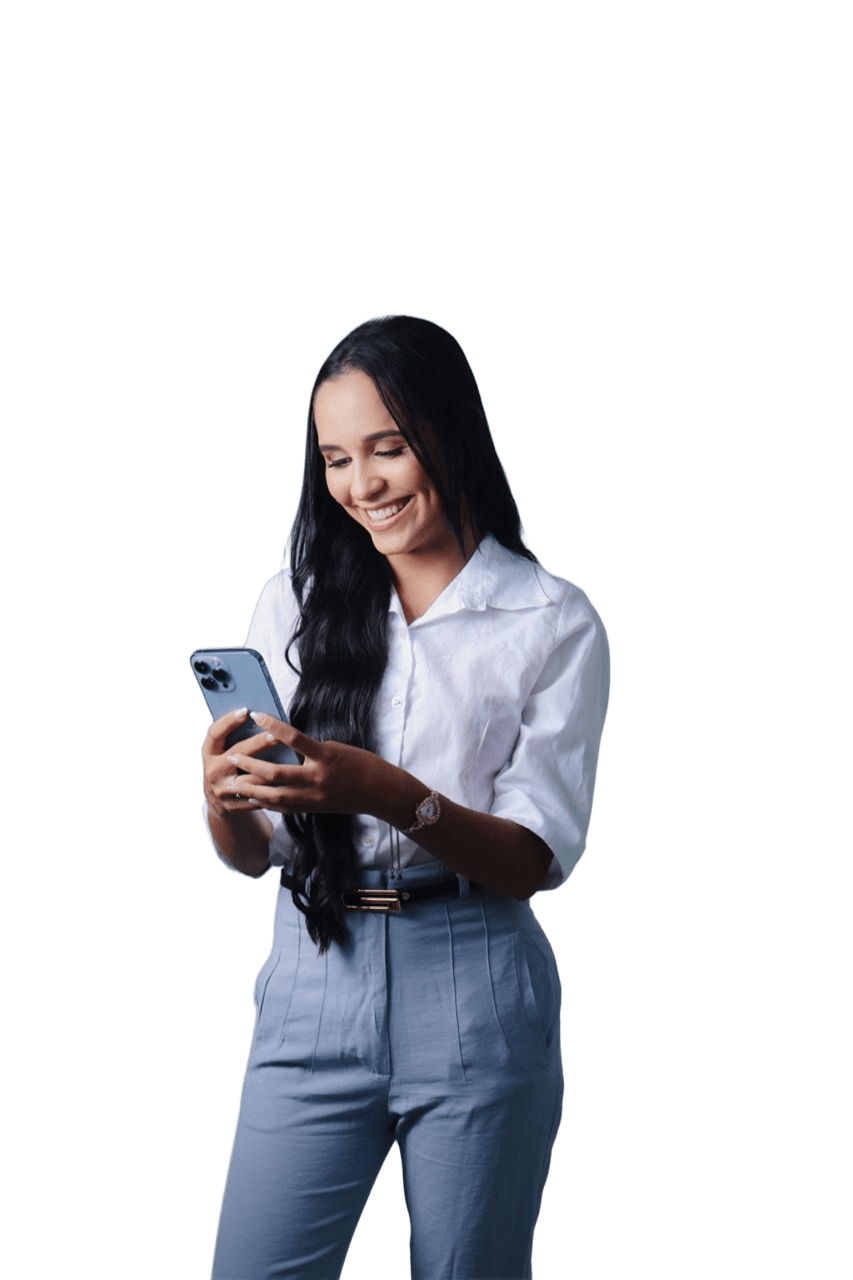
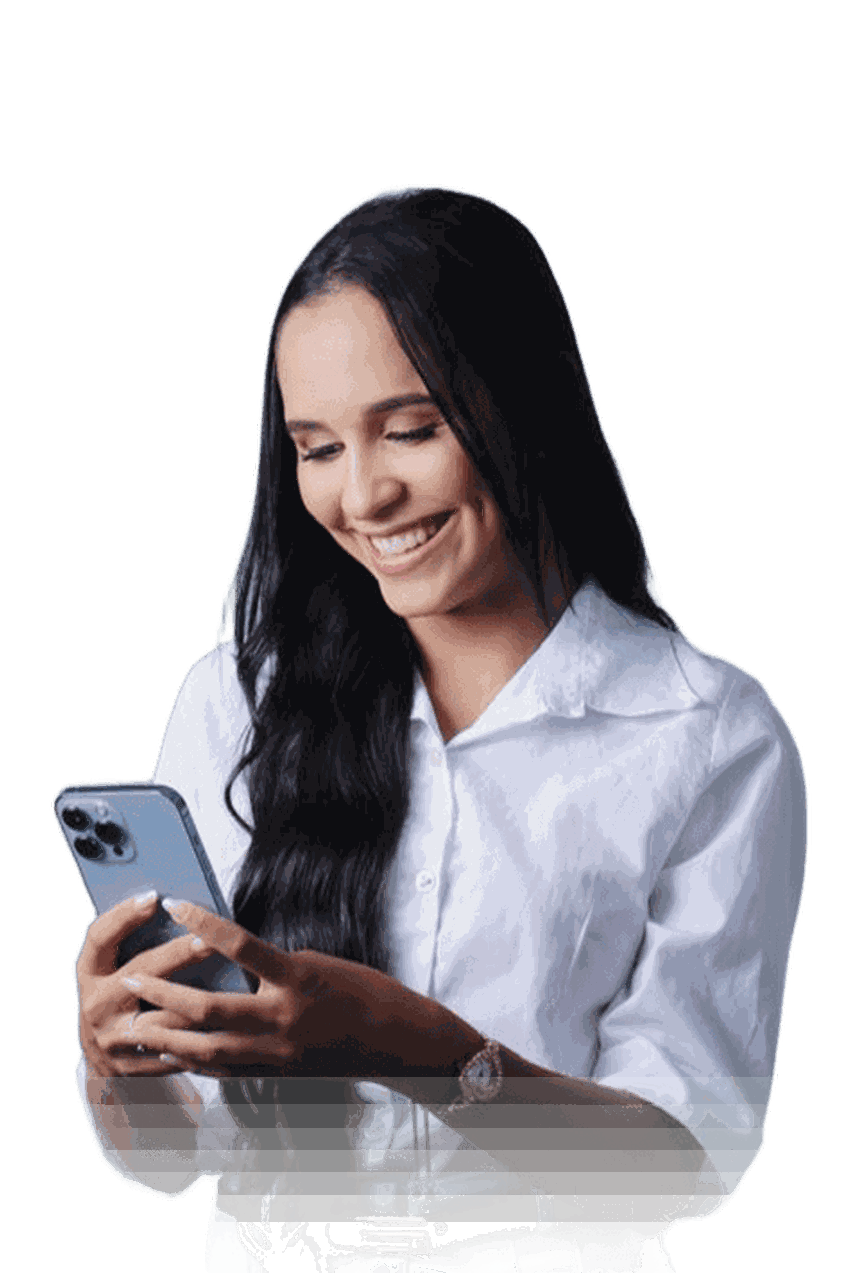
style(produtora): normalize waist-up framing and bottom fade-out across all team portraits

diff --git a/src/produtora/components/ui/TeamShowcaseSection.tsx b/src/produtora/components/ui/TeamShowcaseSection.tsx
@@ -270,13 +270,12 @@ export function TeamShowcaseSection() {
                           decoding="async"
                           className="relative h-full w-auto max-w-none object-contain select-none drop-shadow-[0_24px_45px_rgba(0,0,0,0.85)]"
                           style={{
-                            transform:
-                              chapter.id === 'ary' ? 'scale(1.15)' : 'scale(1.08)',
+                            transform: 'scale(1.08)',
                             transformOrigin: 'bottom center',
                             WebkitMaskImage:
-                              'linear-gradient(to bottom, black 84%, transparent 100%)',
+                              'linear-gradient(to bottom, black 78%, transparent 100%)',
                             maskImage:
-                              'linear-gradient(to bottom, black 84%, transparent 100%)',
+                              'linear-gradient(to bottom, black 78%, transparent 100%)',
                           }}
                         />
                       </div>
